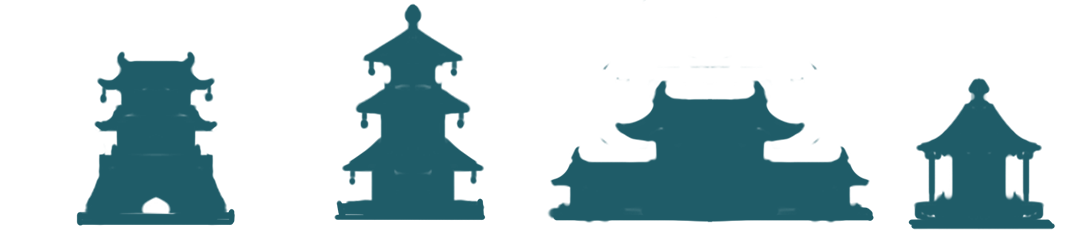
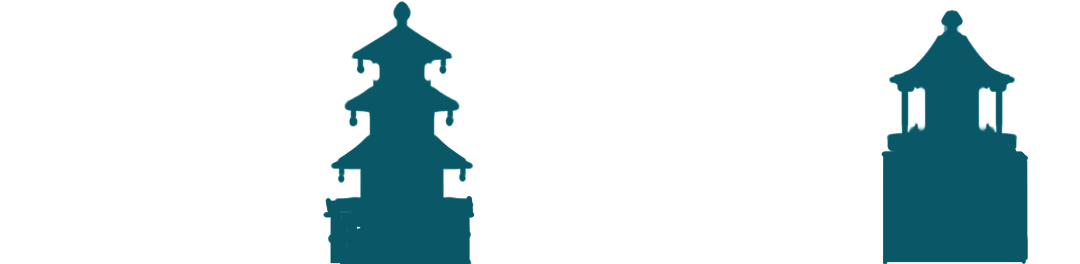
增加柱子

diff --git a/components/role/barrier/barrier.js b/components/role/barrier/barrier.js
@@ -1,0 +1,133 @@
+var AnimationTimer = require('/assets/js/animationTimer.js');
+var animationTimer = new AnimationTimer(100, AnimationTimer.makeEaseOut(2));
+
+var barrier = new Image();
+barrier.src = __uri('barrier.png');
+var reapeat = new Image();
+reapeat.src = __uri('repeat.png');
+
+// var sounder = require('/assets/js/module/sounder.js');
+// var sHited = new Howl({
+//   urls: [__uri('/assets/sounds/coin.mp3'), __uri('/assets/sounds/coin.wav')]
+// });
+
+// 出场位置
+var firstX = 800;
+var firstY = 1080;
+var offsetX;
+var offsetY;
+// 地面坐标
+var floorY = 1500;
+var barrierHeight = barrier.height;
+var reapeatHeight = reapeat.height;
+var reapeatWith = reapeat.width;
+var pillarHeight = floorY - barrierHeight - firstY;
+console.log('reapeat', reapeatWith, pillarHeight, barrierHeight);
+
+// 运动的移动距离
+var moveDistantX = 0;
+var velocityX = 80;
+var lastTime;
+
+var shapes = require('/assets/js/module/shapes.js');
+var shape = shapes.initPolygon(getPoints(firstX, firstY));
+
+function getPoints(x, y) {
+  return [{
+    x: x,
+    y: y
+  }, {
+    x: x,
+    y: y + pillarHeight + barrierHeight
+  }, {
+    x: x + reapeatWith,
+    y: y + pillarHeight + barrierHeight
+  }, {
+    x: x + reapeatWith,
+    y: y
+  }];
+}
+
+function resetShape() {
+  pointX = firstX + moveDistantX + 30;
+  pointy = firstY + 30;
+  shape.points = getPoints(pointX, pointy);
+}
+
+
+function update(context, fps, stageWidth, stageHeight) {
+  var dx = 0;
+  if (animationTimer.isRunning()) {
+    var elapsedTime = animationTimer.getElapsedTime();
+    if (animationTimer.isOver()) {
+      if (moveDistantX > 0) {
+        dx -= 5;
+        moveDistantX += dx;
+      } else {
+        // dx = 0;
+        // fireReady = true;
+        lastTime = null;
+        animationTimer.stop();
+      }
+    } else {
+      if (lastTime) {
+        dx = (velocityX * (elapsedTime - lastTime) / 1000) || 0;
+        moveDistantX += dx;
+        console.log(elapsedTime - lastTime);
+      }
+      lastTime = elapsedTime;
+    }
+  }
+  // console.log(moveDistantX);
+
+  offsetX = firstX + moveDistantX;
+  offsetY = firstY;
+  // console.log('offsetY', offsetY);
+  shape.move(dx, 0);
+}
+
+function paint(ctx, stageWidth, stageHeight) {
+  ctx.save();
+  ctx.translate(offsetX, offsetY);
+  ctx.drawImage(barrier, 0, 0);
+  var pat = ctx.createPattern(reapeat, "repeat");
+  ctx.rect(0, barrierHeight, reapeatWith, pillarHeight);
+  ctx.fillStyle = pat;
+  ctx.fill();
+  ctx.restore();
+
+  // shape.lineWidth = 1;
+  // shape.stroke(ctx);
+  // shape.fill(ctx);
+}
+
+function destroy() {
+  // sHited.play();
+  animationTimer.start();
+}
+
+function reset() {
+  moveDistantX = 0;
+  moveDistantY = randomRange(-250, 200);
+  resetShape();
+}
+
+function create() {
+  moveDistantX = 500;
+  moveDistantY = randomRange(-250, 200);
+  resetShape();
+}
+
+function randomRange(min, max) {
+  return ((Math.random() * (max - min)) + min);
+}
+
+module.exports = {
+  paint: paint,
+  update: update,
+  visible: true,
+  shape: shape,
+  create: create,
+  reset: reset,
+  destroy: destroy
+};

diff --git a/components/bg/bg.js b/components/bg/bg.js
@@ -1,11 +1,11 @@
 // 云1
 var clound = new Image();
-var cloundVelocity = 8;
-clound.src = __uri('img/clound.png');
+var cloundVelocity = 5;
+clound.src = __uri('img/clound-s.png');
 var cloundTranslateX = 0; //位移
 var cloundPos = {
   x: 250,
-  y: 250
+  y: 1100
 };
 var cloundDisappearX = -cloundPos.x - clound.width;
 // 云2
@@ -15,24 +15,42 @@ cloundL.src = __uri('img/clound-l.png');
 var cloundLTranslateX = 0; //位移
 var cloundLPos = {
   x: 500,
-  y: 220
+  y: 720
 };
 var cloundLDisappearX = -cloundLPos.x - cloundL.width;
-
+// 云3
+var cloundM = new Image();
+var cloundMVelocity = 10;
+cloundM.src = __uri('img/clound-m.png');
+var cloundMTranslateX = 0; //位移
+var cloundMPos = {
+  x: 800,
+  y: 1100
+};
+var cloundMDisappearX = -cloundMPos.x - cloundM.width;
 // 建筑
 var house = new Image();
-var houseVelocity = 100;
+var houseVelocity = 150;
 house.src = __uri('img/house.png');
 var houseTranslateX = 0; //位移
 var housePos = {
   x: 0,
-  y: 1220
+  y: 1190
 };
 var houseDisappearX = -housePos.x - house.width;
 
+var house1 = new Image();
+var house1Velocity = 50;
+house1.src = __uri('img/house1.png');
+var house1TranslateX = 0; //位移
+var house1Pos = {
+  x: 0,
+  y: 1270
+};
+var house1DisappearX = -house1Pos.x - house1.width;
 // 城墙
 var wall = new Image();
-var wallVelocity = 350;
+var wallVelocity = 450;
 wall.src = __uri('img/wall.png');
 var wallTranslateX = 0; //位移
 var wallPos = {
@@ -47,6 +65,9 @@ function paint(ctx, canvasWidth, canvasHeight) {
   ctx.translate(0, 0);
   ctx.drawImage(clound, cloundTranslateX + cloundPos.x, cloundPos.y);
   ctx.drawImage(cloundL, cloundLTranslateX + cloundLPos.x, cloundLPos.y);
+  ctx.drawImage(cloundM, cloundMTranslateX + cloundMPos.x, cloundMPos.y);
+  ctx.drawImage(house1, house1TranslateX + house1Pos.x, house1Pos.y);
+  ctx.drawImage(house1, house1TranslateX + house1Pos.x + canvasWidth, house1Pos.y);
   ctx.drawImage(house, houseTranslateX + housePos.x, housePos.y);
   ctx.drawImage(house, houseTranslateX + housePos.x + canvasWidth, housePos.y);
   ctx.drawImage(wall, wallTranslateX + wallPos.x, wallPos.y);
@@ -66,12 +87,24 @@ function update(ctx, fps, canvasWidth, canvasHeight) {
     cloundLTranslateX = canvasWidth;
   }
 
+  cloundMTranslateX = cloundMTranslateX - cloundMVelocity / fps;
+  if (cloundMTranslateX < cloundMDisappearX) {
+    cloundMTranslateX = canvasWidth;
+  }
+
   if (paused) return;
 
   houseTranslateX = houseTranslateX - houseVelocity / fps;
   if (houseTranslateX < houseDisappearX) {
     houseTranslateX = 0;
   }
+
+  house1TranslateX = house1TranslateX - house1Velocity / fps;
+  // console.log(house1TranslateX, house1DisappearX);
+  if (house1TranslateX < house1DisappearX) {
+    house1TranslateX = 0;
+  }
+
 
   wallTranslateX = wallTranslateX - wallVelocity / fps;
   if (wallTranslateX < wallDisappearX) {

diff --git a/views/index/index.js b/views/index/index.js
@@ -14,10 +14,14 @@ var resources = [
   // __uri('/components/weapon/cannon/fire.mp3'),
 
 
-  __uri('/components/bg/img/clound.png'),
+  __uri('/components/bg/img/clound-s.png'),
   __uri('/components/bg/img/clound-l.png'),
+  __uri('/components/bg/img/clound-m.png'),
   __uri('/components/bg/img/house.png'),
+  __uri('/components/bg/img/house1.png'),
   __uri('/components/bg/img/wall.png'),
+  __uri('/components/role/barrier/barrier.png'),
+  __uri('/components/role/barrier/repeat.png'),
 
   __uri('/components/role/player/player.png'),
   __uri('/components/role/enemy/pea/pea.png'),
@@ -64,7 +68,7 @@ $('body').prepend('<div class="stage"><canvas id="gameCanvas" class="canvas" wid
 
 var bg;
 var player;
-var pea;
+var barrier;
 var cannon;
 var bullets = require('/components/bullets/bullets.js');
 bullets.init(stageWidth, stageHeight);
@@ -86,14 +90,14 @@ function initGameContext() {
   initFps(game);
   bg = require('/components/bg/bg.js');
   player = require('/components/role/player/player.js');
-  pea = require('/components/role/enemy/pea/pea.js');
+  barrier = require('/components/role/barrier/barrier.js');
   cannon = require('/components/weapon/cannon/cannon.js');
   player.equip(cannon);
   game.addSprite(bg);
   game.addSprite(player);
-  game.addSprite(pea);
+  game.addSprite(barrier);
   game.addSprite(bullets);
-  bullets.addTarget(pea);
+  bullets.addTarget(barrier);
   bullets.addTarget(player);
   game.addSprite(particleSprite);
   cScore.reset();
@@ -173,7 +177,7 @@ document.addEventListener('gameRestart', function(e) {
   player.reset();
   bg.reset();
   cannon.reset();
-  pea.reset();
+  barrier.reset();
   cResultScore.hide();
   // bgMusic.stop();
   // bgMusic.play();
@@ -183,7 +187,7 @@ document.addEventListener('gameRestart', function(e) {
 // 敌人被击毁
 document.addEventListener('destroyEnemy', function(e) {
   bg.start();
-  pea.create();
+  barrier.create();
   cannon.reset();
 });
 // 新敌人出现

diff --git a/components/weapon/cannon/cannon.js b/components/weapon/cannon/cannon.js
@@ -66,7 +66,7 @@ var curX;
 var curY;
 
 function updatePositon(context, _offsetX, _offsetY) {
-  if (animationTimer.isRunning) {
+  if (animationTimer.isRunning()) {
     var elapsedTime = animationTimer.getElapsedTime();
     if (animationTimer.isOver()) {
       if (moveDistant.x < 0 || moveDistant.y > 0) {
@@ -74,14 +74,19 @@ function updatePositon(context, _offsetX, _offsetY) {
         moveDistant.y > 0 ? moveDistant.y += 1 * sin : 0;
       } else {
         fireReady = true;
+        animationTimer.stop();
+        lastTime = null;
       }
-      animationTimer.stop();
     } else {
-      var distant = (0.5 + velocityX * (elapsedTime - lastTime) / 1000) << 0
-      moveDistant.x += distant * cos;
-      moveDistant.y += distant * sin;
+      if (lastTime) {
+        var distant = velocityX * (elapsedTime - lastTime) / 1000
+        console.log(lastTime);
+        moveDistant.x += distant * cos;
+        moveDistant.y += distant * sin;
+      }
+      lastTime = elapsedTime;
     }
-    lastTime = elapsedTime;
+
   }
   if (isRoate && rotageAngle > -90) {
     rotageAngle--;

diff --git a/components/role/enemy/devil/devil.js b/components/role/enemy/devil/devil.js
@@ -2,7 +2,7 @@ var AnimationTimer = require('/assets/js/animationTimer.js');
 var animationTimer = new AnimationTimer(800, AnimationTimer.makeElastic(1));
 
 var player = new Image();
-player.src = __uri('pea.png');
+player.src = __uri('devil.png');
 
 var sounder = require('/assets/js/module/sounder.js');
 var sHited = new Howl({
